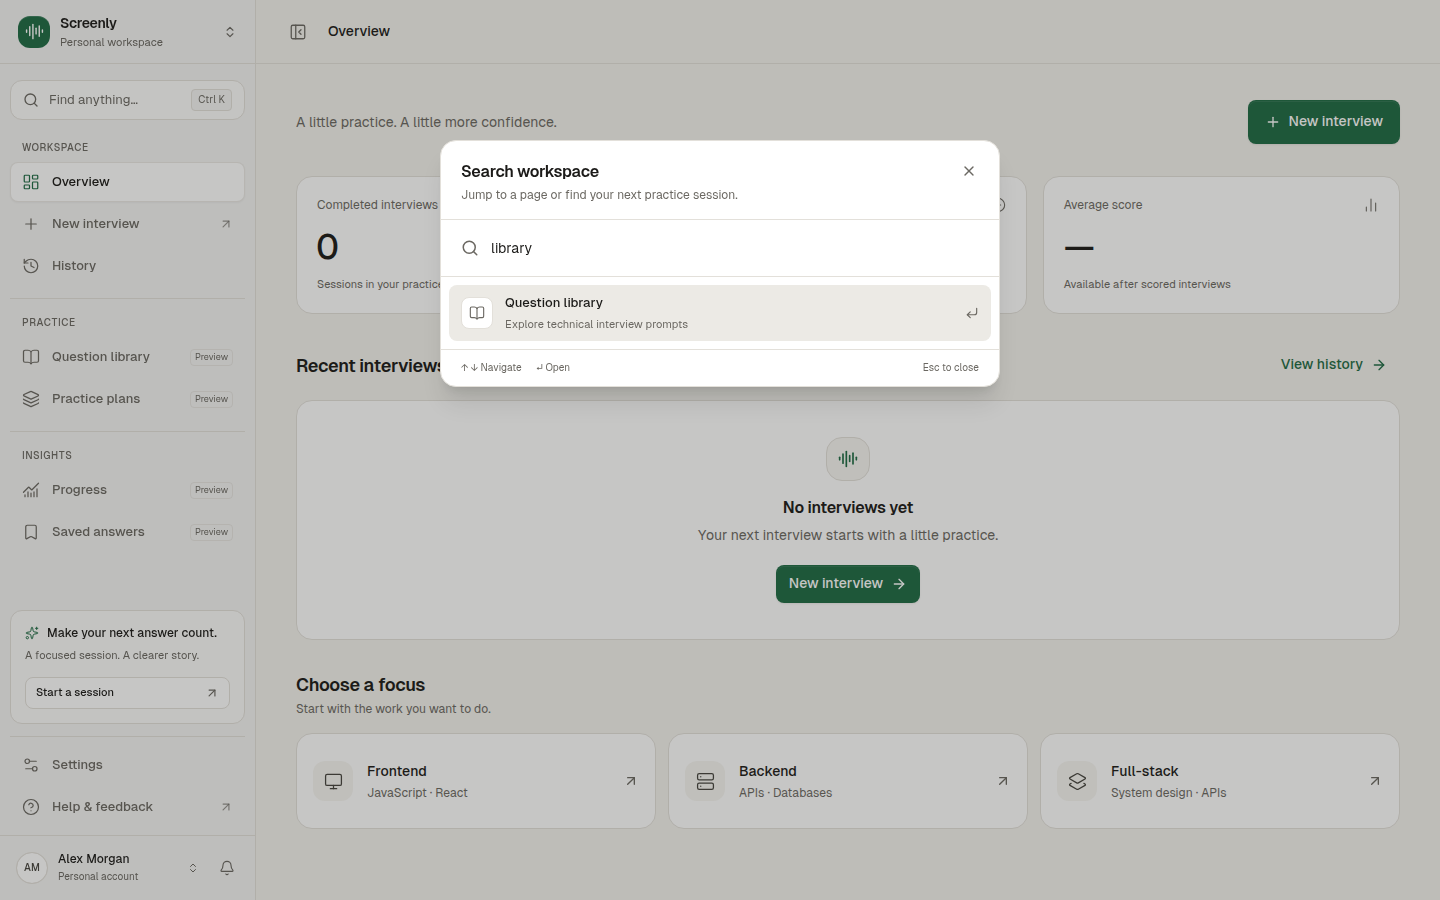
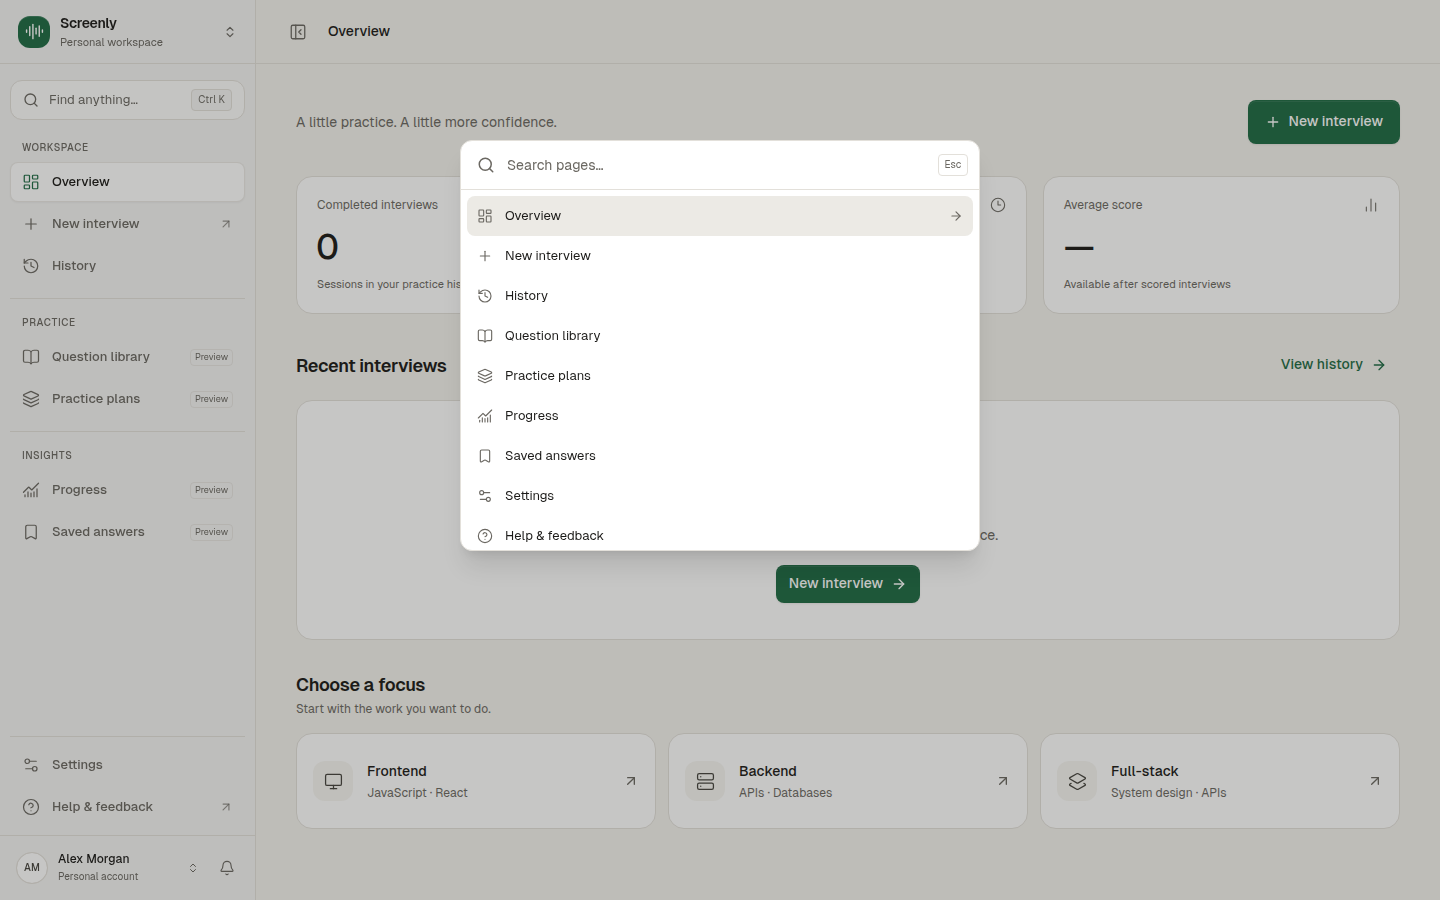
Simplify workspace search and remove sidebar callout

Changed region(s): [[0.2812, 0.1556, 0.7188, 0.6222], [0.0312, 0.6844, 0.1562, 0.7778]]

diff --git a/apps/web/components/workspace-search.tsx b/apps/web/components/workspace-search.tsx
@@ -2,7 +2,7 @@
 
 import { useEffect, useRef, useState } from "react";
 import { useRouter } from "next/navigation";
-import { ArrowUpRight, CornerDownLeft, Search } from "lucide-react";
+import { ArrowRight, Search } from "lucide-react";
 import { Dialog } from "@/components/ui/dialog";
 import { workspaceDestinations } from "@/lib/workspace-navigation";
 import { useUIStore } from "@/store/uiStore";
@@ -55,8 +55,9 @@ export function WorkspaceSearch() {
         }
       }}
       title="Search workspace"
-      description="Jump to a page or find your next practice session."
-      className="max-w-[560px]"
+      description="Use arrow keys to navigate and Enter to open a page."
+      showHeader={false}
+      className="max-w-[520px] overflow-hidden rounded-lg"
       focusRef={input}
       onOpenAutoFocus={() => {
         returnFocus.current = document.activeElement as HTMLElement;
@@ -72,8 +73,11 @@ export function WorkspaceSearch() {
             ?.focus();
       }}
     >
-      <div className="flex items-center gap-3 border-y px-5">
-        <Search className="size-[18px] shrink-0 text-muted-foreground" />
+      <div className="flex items-center gap-3 border-b pl-4 pr-1">
+        <Search
+          className="size-[18px] shrink-0 text-muted-foreground"
+          aria-hidden="true"
+        />
         <input
           ref={input}
           role="combobox"
@@ -84,7 +88,7 @@ export function WorkspaceSearch() {
             results[active] ? `workspace-result-${active}` : undefined
           }
           autoComplete="off"
-          placeholder="Where would you like to go?"
+          placeholder="Search pages…"
           value={query}
           onChange={(event) => {
             setQuery(event.target.value);
@@ -106,16 +110,33 @@ export function WorkspaceSearch() {
               go(results[active].href);
             }
           }}
-          className="h-14 min-w-0 flex-1 bg-transparent text-sm outline-none placeholder:text-muted-foreground"
+          className="h-12 min-w-0 flex-1 bg-transparent text-sm outline-none placeholder:text-muted-foreground"
         />
+        <button
+          type="button"
+          aria-label="Close search workspace"
+          onClick={() => {
+            setSearchOpen(false);
+            setQuery("");
+            setActive(0);
+          }}
+          className="grid size-11 shrink-0 place-items-center rounded-md text-muted-foreground outline-none hover:text-foreground focus-visible:ring-2 focus-visible:ring-ring"
+        >
+          <span
+            className="rounded border px-1.5 py-0.5 text-[10px] leading-4"
+            aria-hidden="true"
+          >
+            Esc
+          </span>
+        </button>
       </div>
       <div
         id="workspace-search-results"
         role="listbox"
         aria-label="Workspace pages"
-        className="max-h-[min(48dvh,400px)] overflow-y-auto p-2"
+        className="max-h-[min(50dvh,360px)] overflow-y-auto p-1.5"
       >
-        {results.map(({ href, label, description, icon: Icon }, index) => (
+        {results.map(({ href, label, icon: Icon }, index) => (
           <button
             type="button"
             key={href}
@@ -127,40 +148,32 @@ export function WorkspaceSearch() {
             onMouseMove={() => setActive(index)}
             onMouseDown={(event) => event.preventDefault()}
             className={cn(
-              "flex min-h-14 w-full items-center gap-3 rounded-md px-3 text-left outline-none transition-colors",
+              "flex min-h-11 w-full items-center gap-3 rounded-md px-2.5 text-left outline-none transition-colors md:min-h-10 [@media(pointer:coarse)]:min-h-11",
               active === index && "bg-secondary",
             )}
           >
-            <span className="grid size-8 shrink-0 place-items-center rounded-md border bg-card text-muted-foreground">
-              <Icon className="size-4" strokeWidth={1.7} />
-            </span>
-            <span className="min-w-0 flex-1">
-              <span className="block text-[13px] font-medium">{label}</span>
-              <span className="mt-0.5 block truncate text-[11px] text-muted-foreground">
-                {description}
-              </span>
-            </span>
-            {active === index ? (
-              <CornerDownLeft className="size-3.5 text-muted-foreground" />
-            ) : (
-              <ArrowUpRight className="size-3.5 text-muted-foreground/50" />
+            <Icon
+              className="size-4 shrink-0 text-muted-foreground"
+              strokeWidth={1.7}
+              aria-hidden="true"
+            />
+            <span className="min-w-0 flex-1 truncate text-[13px]">{label}</span>
+            {active === index && (
+              <ArrowRight
+                className="size-3.5 shrink-0 text-muted-foreground"
+                aria-hidden="true"
+              />
             )}
           </button>
         ))}
         {results.length === 0 && (
           <p
             role="status"
-            className="px-3 py-10 text-center text-sm text-muted-foreground"
+            className="px-2.5 py-5 text-center text-[13px] text-muted-foreground"
           >
-            No pages match “{query}”.
+            No results.
           </p>
         )}
-      </div>
-      <div className="flex items-center justify-between border-t px-5 py-2.5 text-[10px] text-muted-foreground">
-        <span>
-          ↑ ↓ Navigate <span className="ml-3">↵ Open</span>
-        </span>
-        <span>Esc to close</span>
       </div>
     </Dialog>
   );

diff --git a/apps/web/components/ui/dialog.tsx b/apps/web/components/ui/dialog.tsx
@@ -12,6 +12,7 @@ export function Dialog({
   description,
   children,
   className,
+  showHeader = true,
   focusRef,
   onOpenAutoFocus,
   onCloseAutoFocus,
@@ -22,6 +23,7 @@ export function Dialog({
   description: string;
   children: React.ReactNode;
   className?: string;
+  showHeader?: boolean;
   focusRef?: React.RefObject<HTMLElement | null>;
   onOpenAutoFocus?: (event: Event) => void;
   onCloseAutoFocus?: (event: Event) => void;
@@ -44,7 +46,12 @@ export function Dialog({
             className,
           )}
         >
-          <div className="flex items-start justify-between gap-4 px-5 pt-5 pb-4">
+          <div
+            className={cn(
+              "flex items-start justify-between gap-4 px-5 pt-5 pb-4",
+              !showHeader && "sr-only",
+            )}
+          >
             <div>
               <Primitive.Title className="text-base font-semibold">
                 {title}
@@ -53,16 +60,18 @@ export function Dialog({
                 {description}
               </Primitive.Description>
             </div>
-            <Primitive.Close asChild>
-              <Button
-                variant="ghost"
-                size="icon-sm"
-                className="-mt-2 -mr-2"
-                aria-label={`Close ${title.toLowerCase()}`}
-              >
-                <X className="size-4" />
-              </Button>
-            </Primitive.Close>
+            {showHeader && (
+              <Primitive.Close asChild>
+                <Button
+                  variant="ghost"
+                  size="icon-sm"
+                  className="-mt-2 -mr-2"
+                  aria-label={`Close ${title.toLowerCase()}`}
+                >
+                  <X className="size-4" />
+                </Button>
+              </Primitive.Close>
+            )}
           </div>
           {children}
         </Primitive.Content>

diff --git a/apps/web/components/workspace-sidebar.tsx b/apps/web/components/workspace-sidebar.tsx
@@ -16,7 +16,6 @@ import {
   Settings2,
   Bell,
   UserRound,
-  Sparkles,
   X,
 } from "lucide-react";
 import { authClient } from "@/lib/auth-client";
@@ -285,25 +284,6 @@ export function WorkspaceSidebar({
       </nav>
 
       <div className="shrink-0 px-2.5">
-        {!collapsed && (
-          <div className="mb-3 hidden rounded-lg border bg-card/60 p-3.5 md:block">
-            <div className="flex items-center gap-2 text-xs font-medium">
-              <Sparkles className="size-3.5 text-primary" strokeWidth={1.7} />
-              Make your next answer count.
-            </div>
-            <p className="mt-1.5 text-[11px] leading-relaxed text-muted-foreground">
-              A focused session. A clearer story.
-            </p>
-            <Link
-              href="/interviews/new"
-              onClick={navigate}
-              className="mt-3 flex min-h-8 items-center [@media(pointer:coarse)]:min-h-11 justify-between rounded-md border bg-card px-2.5 text-[11px] font-medium transition-colors hover:bg-secondary"
-            >
-              Start a session
-              <ArrowUpRight className="size-3.5 text-muted-foreground" />
-            </Link>
-          </div>
-        )}
         <div className="space-y-0.5 border-t py-2">
           {workspaceUtilities.map(({ href, label, icon: Icon }) => (
             <Hint key={href} label={label} enabled={collapsed}>

diff --git a/e2e/sidebar.spec.ts b/e2e/sidebar.spec.ts
@@ -57,8 +57,8 @@ test("structured sidebar, remembered rail, workspace search, and interview focus
   await expect(search).toBeVisible();
   const query = page.getByRole("combobox", { name: "Search workspace pages" });
   await expect(query).toBeFocused();
-  await query.fill("library");
   await capture("sidebar-search");
+  await query.fill("library");
   await query.press("Enter");
   await expect(page).toHaveURL(/\/library$/);
   await expect(
@@ -146,6 +146,7 @@ test("structured sidebar, remembered rail, workspace search, and interview focus
     .click();
   await expect(search).toBeVisible();
   await expect(query).toBeFocused();
+  await capture("sidebar-search-mobile");
   await query.fill("settings");
   await query.press("Enter");
   await expect(page).toHaveURL(/\/settings$/);

diff --git a/DESIGN.md b/DESIGN.md
@@ -384,7 +384,7 @@ Both variable fonts are loaded locally through `next/font/local` from `apps/web/
 
 At the medium breakpoint (768px), the fixed sidebar is (256px) wide and collapses to a (72px) icon rail. The main content follows the same animated width variable over (240ms), using `cubic-bezier(0.22,1,0.36,1)`; reduced motion switches instantly. Icons stay anchored to the leading edge during the fold. Manual collapse is stored on this device. A live interview temporarily defaults to the rail, allows manual expansion during the session, and restores the usual preference when leaving. The brand row and top bar remain (64px) high. The top-bar panel control stays available in both desktop states.
 
-Navigation rows are (40px) on fine-pointer desktop and at least (44px) on small screens or coarse pointers. The top workspace menu and search are fixed; the grouped navigation scrolls independently; utilities and the account footer stay pinned. Below (768px), a left Radix sheet uses a compact workspace header with its own close button, hides the desktop practice callout, and retains the same full navigation. Selecting a route closes the drawer. Escape and focus restoration work for the drawer, menus, and search. The route h1 remains only in the top bar. Do not add the removed tagline or decorative logo/active-navigation dots.
+Navigation rows are (40px) on fine-pointer desktop and at least (44px) on small screens or coarse pointers. The top workspace menu and search are fixed; the grouped navigation scrolls independently; utilities and the account footer stay pinned. Below (768px), a left Radix sheet uses a compact workspace header with its own close button and retains the same full navigation. Selecting a route closes the drawer. Escape and focus restoration work for the drawer, menus, and search. The route h1 remains only in the top bar. Do not add the removed tagline or decorative logo/active-navigation dots.
 
 Regular workspace content is centered within (1160px), with horizontal padding progressing through (16px), (24px), (32px), and (40px) as space grows. Voice content uses a wider (1280px) ceiling and (16px / 32px) padding. Most panel padding is (20px / 24px), repeated item gaps are (8px–16px), and section separation is commonly (28px–32px). These are compositions built from the extracted spacing steps, rather than a universal equal-gap grid.
 
@@ -438,9 +438,9 @@ Text fields are white, (44px) high, with medium corners, a stronger input stroke
 
 ### Navigation
 
-The sidebar follows the supplied Vercel reference's firm hierarchy within Screenly's warm-paper palette: workspace switcher, bordered search, Workspace / Practice / Insights groups, fine dividers, a compact desktop practice prompt, utility links, and a pinned account menu with notifications. Current routes use a white bordered row, charcoal text, fern icon, and a restrained Motion selection transition. The compact rail retains labeled links and keyboard/hover tooltips.
+The sidebar follows the supplied Vercel reference's firm hierarchy within Screenly's warm-paper palette: workspace switcher, bordered search, Workspace / Practice / Insights groups, fine dividers, utility links, and a pinned account menu with notifications. Current routes use a white bordered row, charcoal text, fern icon, and a restrained Motion selection transition. The compact rail retains labeled links and keyboard/hover tooltips.
 
-**Search workspace** opens a Radix dialog from the search control or Ctrl/Cmd K. Filtered destinations support arrow keys, Enter, Escape, input focus, and focus restoration. The account menu contains the real user name/email, settings links, and sign-out. The workspace menu identifies the current personal workspace; team creation is explicitly in preview. The preview destinations are Question library, Practice plans, Progress, and Saved answers. They contain sample prompts or honest preview states, without fabricated personal statistics. Settings includes the real local sidebar preference, and Help documents actual interactions.
+**Search workspace** opens a compact Radix dialog from the search control or Ctrl/Cmd K. Its visible content is one 48px input row with an Esc control, followed by plain leading-icon destination rows (40px desktop / 44px touch). The panel is capped at 520px, with 6px list padding and no visible heading, descriptions, icon tiles, or instruction footer. Title and keyboard instructions remain available to assistive technology. Filtered destinations support arrow keys, Enter, Escape, input focus, and focus restoration. The removed sidebar practice callout stays removed. The account menu contains the real user name/email, settings links, and sign-out. The workspace menu identifies the current personal workspace; team creation is explicitly in preview. The preview destinations are Question library, Practice plans, Progress, and Saved answers. They contain sample prompts or honest preview states, without fabricated personal statistics. Settings includes the real local sidebar preference, and Help documents actual interactions.
 
 ### Sheets and confirmations
 

diff --git a/docs/ui-rebuild-plan.md b/docs/ui-rebuild-plan.md
@@ -81,3 +81,11 @@ Validation: 21 unit/integration tests and six browser journeys pass, together wi
 Validation: types, zero-warning lint, formatting, 21 unit/integration tests, the production build, and all seven browser journeys pass. Browser coverage includes persisted collapse, search focus and keyboard navigation, menu focus return, rail tooltips, reduced motion, automatic interview collapse, manual expansion during a session, preference restoration after exit, mobile navigation, and sign-out.
 
 Independent review: `disposition: fix` for a Practice plans heading eyebrow; resolved by moving the role into metadata below the heading. Final scored verdict: `disposition: ship`. The reviewer found no material sidebar issue. Five current sidebar captures and the bounded desktop/mobile visual confirmation are saved in `docs/screenshots/`.
+
+## Minimal search refinement
+
+- [x] Replace the search title block, description rows, icon tiles, and instruction footer with one compact input and flat destination list. Preserve accessible naming, keyboard controls, focus restoration, and touch targets.
+- [x] Remove the sidebar session callout at the user's request; retain New interview as the session entry point.
+- [x] Document the updated search/sidebar contract.
+
+Validation: types, zero-warning lint, formatting, production build, and the existing sidebar browser journey pass. Fresh desktop/mobile captures verify the compact search and removed callout. Independent review: `disposition: ship`, with no material fixes.

diff --git a/apps/web/.impeccable/surfaces/app-dashboard-page-tsx.md b/apps/web/.impeccable/surfaces/app-dashboard-page-tsx.md
@@ -38,3 +38,7 @@ The route h1 now appears only in the workspace top bar, without the voice-first 
 ## Sidebar refinement override
 
 The user supplied Vercel sidebar references and explicitly requested a denser premium navigation system, manual collapse, an automatic compact rail during interviews, Motion, and additional preview destinations. The current shell is 256px expanded / 72px collapsed with grouped rows, workspace/account menus, Ctrl/Cmd K search, rail tooltips, pinned utilities, persisted manual preference, and temporary interview focus. Mobile uses a compact full-navigation drawer. This supersedes the original three-route 240px sidebar contract while preserving the approved light palette and existing interview behavior.
+
+## Search simplification override
+
+The user requested a minimal command-search overlay matching the compact input/list hierarchy of the supplied reference. Keep only the input, Esc control, plain icons, destination names, and selected-row arrow visible; retain keyboard and screen-reader support. Remove the redundant heading, explanatory copy, icon tiles, and keyboard footer. The sidebar session callout was explicitly removed.

diff --git a/docs/screenshots/README.md b/docs/screenshots/README.md
@@ -9,3 +9,5 @@ Refinement captures include `preflight-mobile.png` and `interview-transcript-144
 `caption-highlight-desktop.png` and `caption-highlight-mobile.png` show the full generated question with a visual speaking highlight. These captures use the same controlled providers and simulated input described above. The highlight is a presentation effect and never controls or segments audio.
 
 Sidebar captures: `sidebar-expanded.png`, `sidebar-collapsed.png`, `sidebar-search.png`, `sidebar-mobile.png`, and `sidebar-interview-focus.png`. These show the supplied-reference navigation refinement, remembered icon rail, command search, compact mobile drawer, and temporary interview focus using the controlled browser-test account.
+
+`sidebar-search.png` and `sidebar-search-mobile.png` show the compact command-search refinement with plain destination rows and no title block or footer. The updated expanded sidebar capture omits the removed session callout. These use the controlled sidebar browser journey described above.
